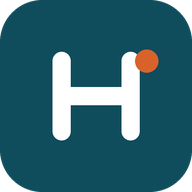
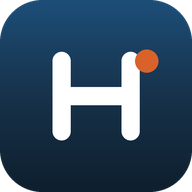
Huisstijl: navy uit het sjabloon Orthopedie JYZ 2026
Hoofdkleur #17324A met verloop naar #0E1F2E in de koppen, lichtblauw #8FB3D1
in de donkere modus, app-iconen en theme-color mee aangepast.
Service worker-versie verhoogd naar 2026-11-22-2.

Claude-Session: https://claude.ai/code/session_018d3okzyPdrdiked3AwCL4p

diff --git a/index.html b/index.html
@@ -3,7 +3,7 @@
 <head>
 <meta charset="utf-8">
 <meta name="viewport" content="width=device-width, initial-scale=1">
-<meta name="theme-color" content="#0f4c5c">
+<meta name="theme-color" content="#17324a">
 <meta name="description" content="Patiënteninformatie van de dienst Orthopedie, Jan Yperman Ziekenhuis: voorbereiding, opname en herstel na uw ingreep.">
 <link rel="manifest" href="manifest.webmanifest">
 <link rel="icon" type="image/png" sizes="32x32" href="icons/favicon-32.png">
@@ -22,10 +22,10 @@
    COLOUR and TYPE: wit, diep petrol, warm oranje accent; Atkinson Hyperlegible (gemaakt voor leesbaarheid)
    LAYOUT: één kolom, sticky hoofdstukbalk, tijdlijn met grote hangende labels, complicaties als rijen met balken */
 :root{color-scheme:light dark;
---bg:light-dark(#ffffff,#0b1a1f);--ink:light-dark(#10303a,#e6f0f2);--soft:light-dark(#4a6670,#9fb6bd);
---pet:light-dark(#0f4c5c,#5fb3c4);--band:light-dark(#eef5f6,#12262d);--line:light-dark(#d5e3e6,#24414a);
+--bg:light-dark(#ffffff,#0e1f2e);--ink:light-dark(#0e1f2e,#e6edf3);--soft:light-dark(#4b6075,#a3b4c3);
+--pet:light-dark(#17324a,#8fb3d1);--band:light-dark(#eef3f8,#17324a);--line:light-dark(#d6e0ea,#2c4862);
 --acc:light-dark(#d9622b,#f08a55);--bone:light-dark(#f3ead8,#d9cfbb);--boneS:light-dark(#c9b98f,#a99d7f);
---metal:light-dark(#9aa7ad,#b9c4c9);--poly:light-dark(#2f8fa6,#7fd0e0)}
+--metal:light-dark(#9aa7ad,#b9c4c9);--poly:light-dark(#2f5170,#8fb3d1)}
 :root[data-theme=light]{color-scheme:light}:root[data-theme=dark]{color-scheme:dark}
 *{box-sizing:border-box;min-width:0}
 body{margin:0;background:var(--bg);color:var(--ink);font:17px/1.6 "Atkinson Hyperlegible",system-ui,sans-serif;overflow-x:clip}
@@ -33,7 +33,7 @@ html{scroll-padding-top:72px;scroll-behavior:smooth}
 @media(prefers-reduced-motion:reduce){html{scroll-behavior:auto}}
 .wrap{max-width:820px;margin:0 auto}
 .band{padding:clamp(28px,4vw,56px) max(5vw,16px)}
-header.band{background:var(--pet);color:#fff;padding-bottom:28px}
+header.band{background:linear-gradient(160deg,#1d4e78 0%,#17324a 55%,#0e1f2e 100%);color:#fff;padding-bottom:28px}
 header .dept{font-size:15px;opacity:.85;margin:0 0 6px}
 h1{font-size:clamp(32px,6vw,46px);line-height:1.05;margin:0 0 12px;text-wrap:balance}
 header p.lead{margin:0;max-width:60ch;opacity:.95}
@@ -147,16 +147,16 @@ table.hv{width:100%;max-width:560px;border-collapse:collapse;margin:6px 0 4px}ta
 .vmeta{padding:12px 16px 14px}.vmeta b{display:block;font-size:18px}.vmeta small{color:var(--soft);font-size:15px}
 .vmeta a{font-size:14px;color:var(--pet);font-weight:700}
 .view{display:none}.view.on{display:block}
-.hero{background:var(--pet);color:#fff}
+.hero{background:linear-gradient(160deg,#1d4e78 0%,#17324a 55%,#0e1f2e 100%);color:#fff}
 .hero .wrap,.home .wrap{max-width:1100px}
 .hero p{max-width:60ch;opacity:.95;margin:0}
 .home-grid{display:grid;grid-template-columns:minmax(0,6fr) minmax(0,5fr);gap:clamp(20px,4vw,56px);align-items:start}
 .body{position:relative;background:var(--band);border-radius:20px;padding:16px;display:flex;justify-content:center;align-items:center}
 .body svg{width:100%;max-width:520px;height:auto}.body a{cursor:pointer}
-.body .limb{stroke:light-dark(#cfe0e4,#2a4a54);stroke-linecap:round;stroke-linejoin:round;fill:none}
-.body .trunk{fill:light-dark(#cfe0e4,#2a4a54)}
+.body .limb{stroke:light-dark(#cfdbe6,#2c4862);stroke-linecap:round;stroke-linejoin:round;fill:none}
+.body .trunk{fill:light-dark(#cfdbe6,#2c4862)}
 .body a circle{fill:var(--acc);stroke:#fff;stroke-width:4;transition:r .15s}
-.body a.off circle{fill:#fff;stroke:#0f4c5c;stroke-width:3}
+.body a.off circle{fill:#fff;stroke:#17324a;stroke-width:3}
 .body a:hover circle,.body a.hl circle,.body a:focus-visible circle{r:16}
 .joints{list-style:none;margin:0;padding:0;display:grid;gap:10px}
 .joints a{display:flex;align-items:center;justify-content:space-between;gap:12px;padding:16px 18px;border:1px solid var(--line);border-radius:14px;color:var(--ink);text-decoration:none;min-height:64px;background:var(--bg)}

diff --git a/sw.js b/sw.js
@@ -1,6 +1,6 @@
 // Service worker: maakt de app offline beschikbaar.
 // Verhoog VERSIE bij elke wijziging aan de app, zodat telefoons de nieuwe versie ophalen.
-const VERSIE = "2026-11-22-1";
+const VERSIE = "2026-11-22-2";
 const CACHE = "orthopedie-" + VERSIE;
 const BESTANDEN = [
   "./",
